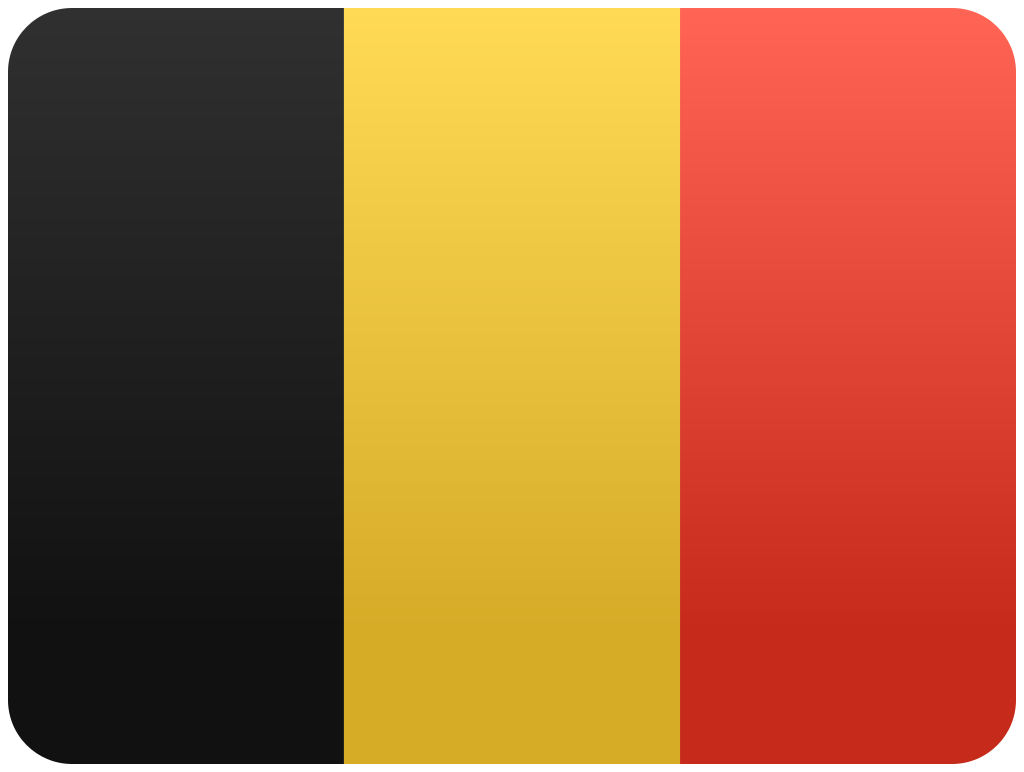
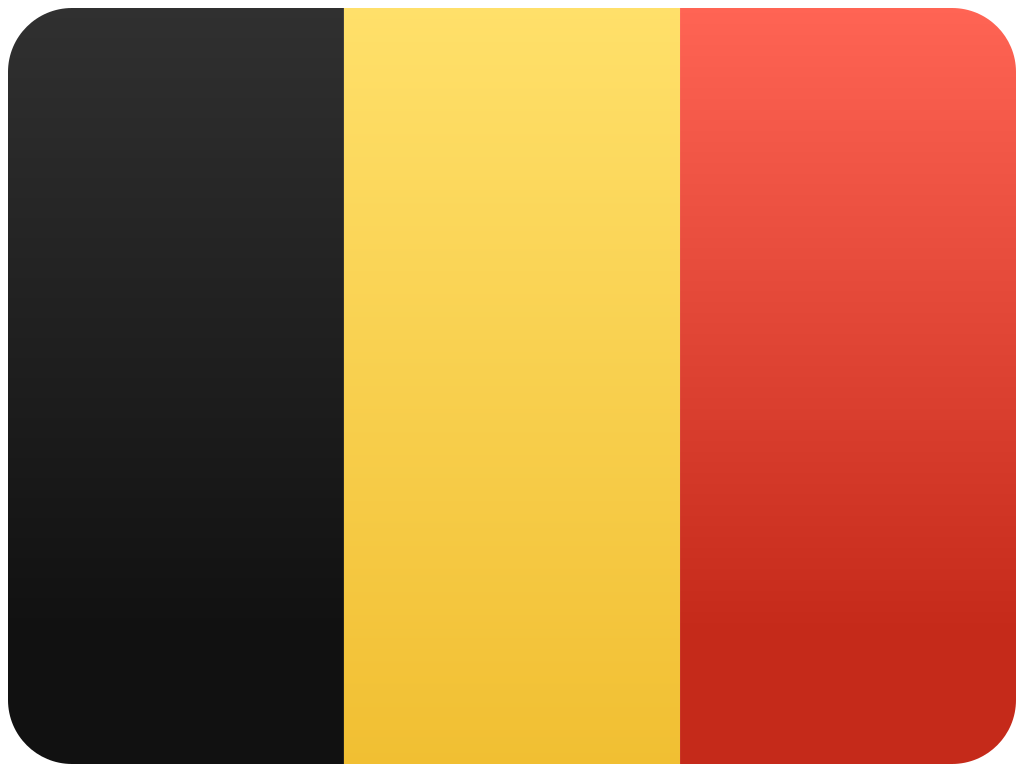
style: refine shading on selected European and Korean flags

Changed region(s): [[0.3125, 0.6528, 0.6875, 0.9948]]

diff --git a/flags/README.md b/flags/README.md
@@ -6,9 +6,11 @@
 
 Redrawn flags use a 1024 × 772 transparent canvas, a 1008 × 756 card at (8, 8), and 64 px corners. Proportions and palettes are decorative rather than official specifications. The base coral and indigo palette follows the original USA-1 design.
 
-Japan and Singapore use the selected B treatment: continuous white shading, a subtle light rim and a lower edge. Singapore's crescent and stars use a separate local white gradient.
+Japan, Singapore and Korea use the selected B treatment: continuous white shading, a subtle light rim and a lower edge. Singapore's crescent and stars use a separate local white gradient.
 
 Germany uses a separate gradient inside each stripe, avoiding a muddy yellow band caused by global shading. Its endpoints are charcoal `#424242` → `#171717`, coral `#FF6454` → `#DC3929`, and gold `#FFE06A` → `#F1BF32`.
+
+Belgium uses the same brighter gold endpoints as Germany. Ireland and Italy have lighter green shadows; Ireland also has a brighter orange. The Netherlands uses a local indigo gradient inside its blue stripe (`#3659A8` → `#173681`) to avoid a nearly flat dark base. Other selected palettes remain unchanged.
 
 ## United Nations and institution artwork
 
